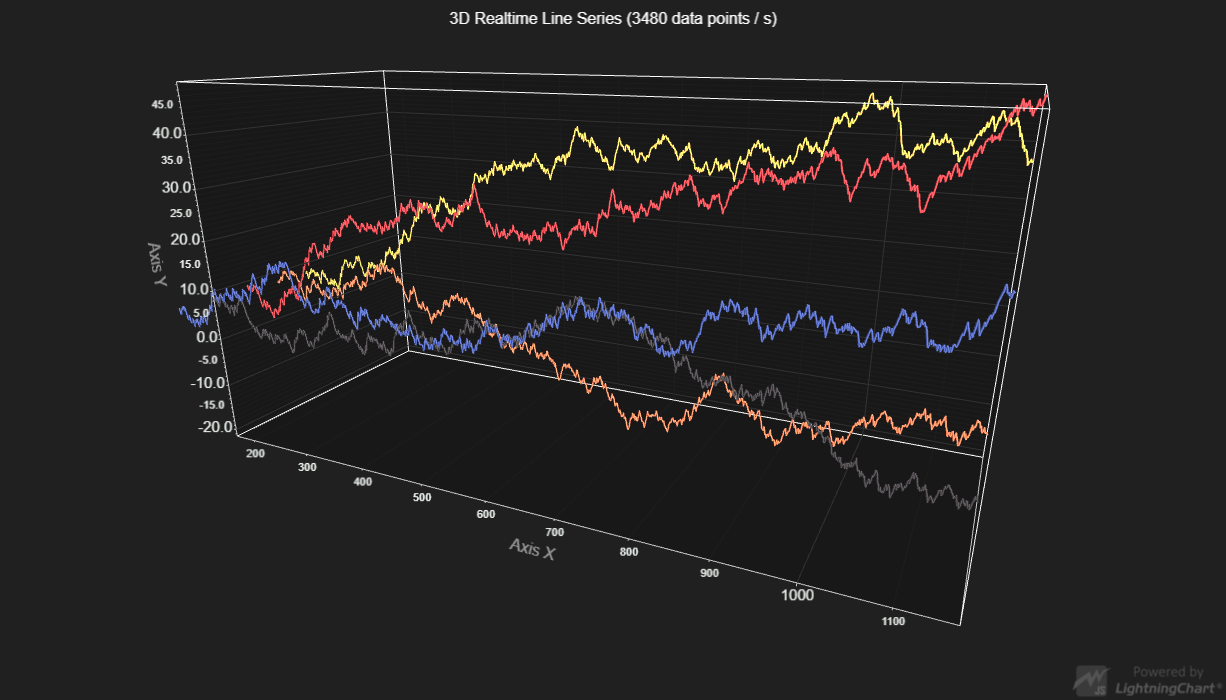
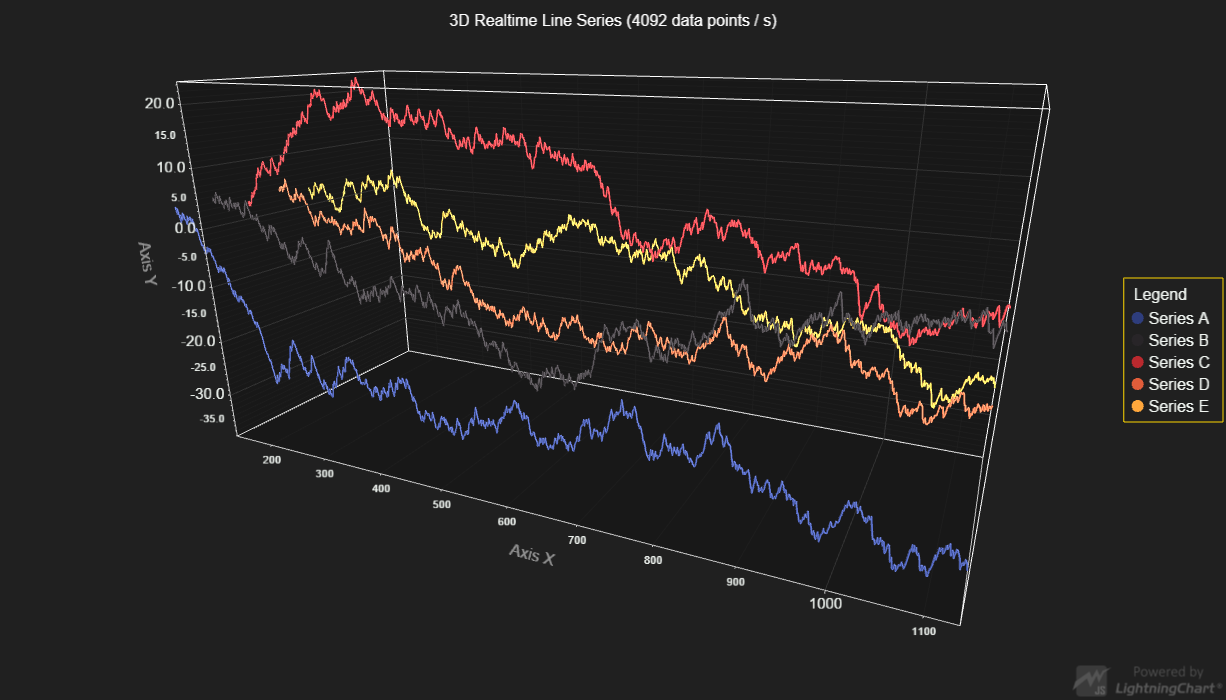
LCJS 3.0.0

diff --git a/src/index.js b/src/index.js
@@ -113,6 +113,9 @@ Promise.all(
             })
     })
 ).then(( seriesAndData ) => {
+    // Add LegendBox to chart (after series were created).
+    const legend = chart3D.addLegendBox().add(chart3D)
+
     // Setup streaming to all series.
     let tStart = Date.now()
     let dataAmount = 0

diff --git a/README.md b/README.md
@@ -49,6 +49,6 @@ Direct developer email support can be purchased through a [Support Plan][4] or b
 © Arction Ltd 2009-2020. All rights reserved.
 
 
-[3D chart]: https://www.arction.com/lightningchart-js-api-documentation/v2.2.0/classes/chart3d.html
-[3D line series]: https://www.arction.com/lightningchart-js-api-documentation/v2.2.0/classes/lineseries3d.html
+[3D chart]: https://www.arction.com/lightningchart-js-api-documentation/v3.0.0/classes/chart3d.html
+[3D line series]: https://www.arction.com/lightningchart-js-api-documentation/v3.0.0/classes/lineseries3d.html
 
